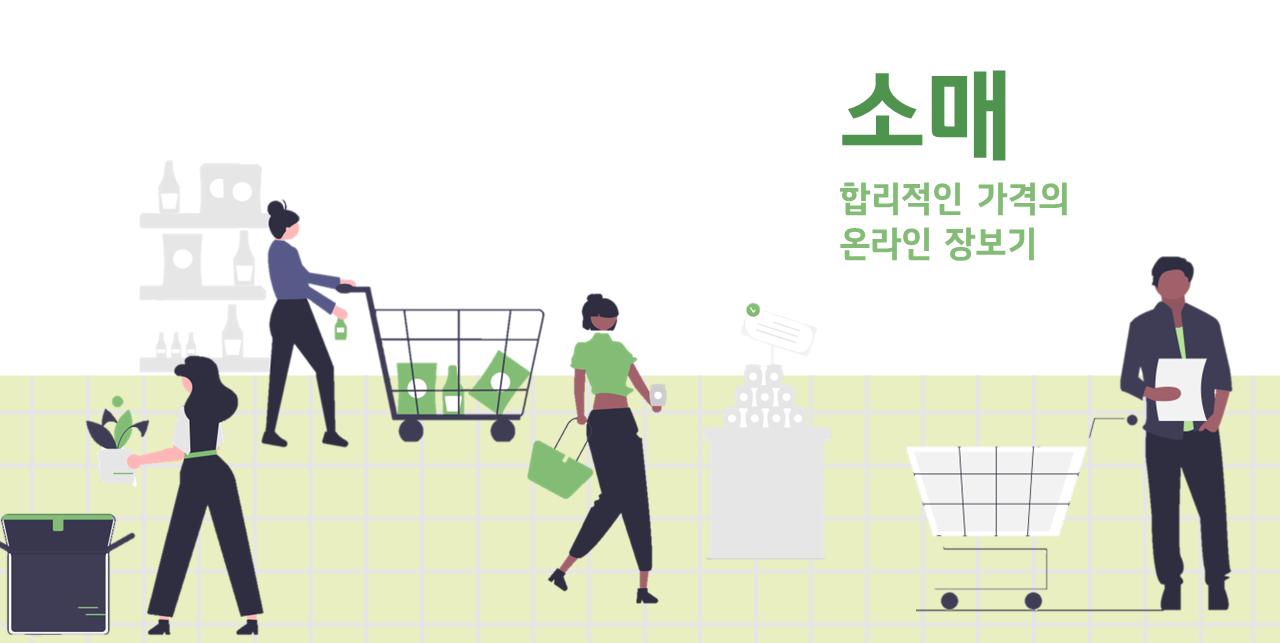
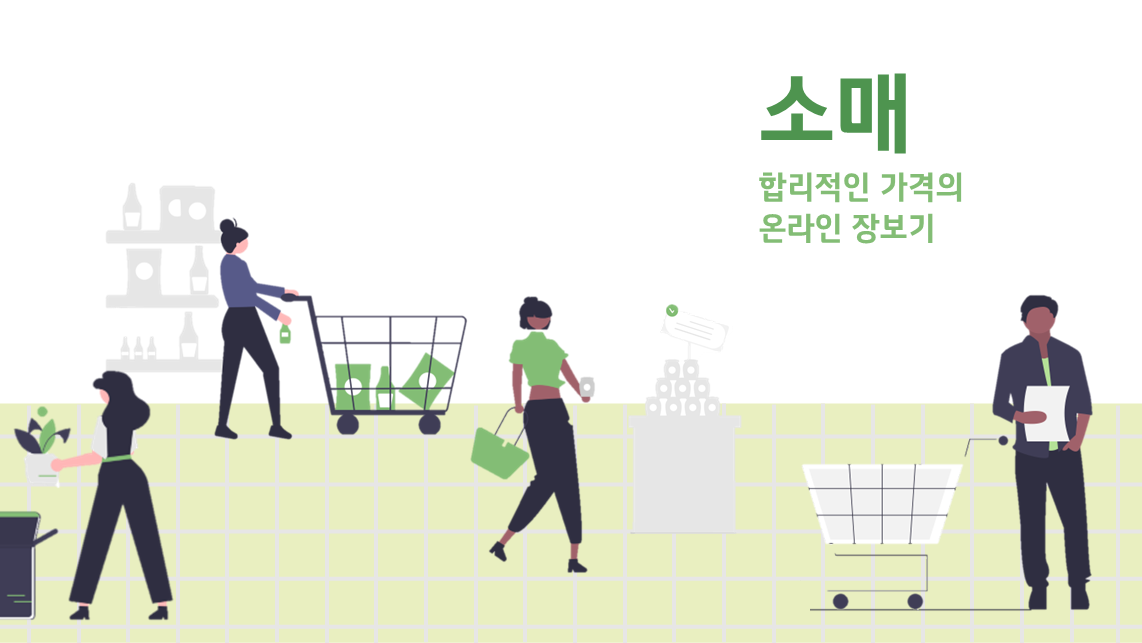
메인페이지 배너 변경

Changed region(s): [[0.0, 0.2488, 1.0, 0.9953], [0.6436, 0.0933, 0.8581, 0.4044], [0.4597, 0.4355, 0.4904, 0.5288]]

diff --git a/src/views/home/home.html b/src/views/home/home.html
@@ -43,7 +43,6 @@
         <div class="pageTop">
           <a href="/" class="brand">
             <span class="logoTitle">m</span>
-            <!-- <span id="title"><span class="subTitle">먹거리장터</span>먹짱</span> -->
           </a>
         </div>
         <div class="Category">
@@ -54,13 +53,9 @@
     </header>
     <!--메인-->
     <main role="main" class="main">
-      <section class="slider">
-        <button class="imgBtn left"><i class="fas fa-chevron-left fa-2x" aria-hidden="true"></i></button>
-        <ul class="slides">
-          <li class="slide"><img class="img" id="categoryBig" src="../배너1.PNG"></li>
-          <li class="slide"><img class="img" id="categorySmall" src="../배너2.PNG"></li>
-        </ul>
-        <button class="imgBtn right"><i class="fas fa-chevron-right fa-2x" aria-hidden="true"></i></button>   
+      <section class="mainBanner">
+        <img class="img big" id="categoryBig" src="../배너1.PNG">
+        <img class="img small" id="categorySmall" src="../배너2.PNG">
       </section>
     </main>
   </body>

diff --git a/src/views/home/home.js b/src/views/home/home.js
@@ -1,36 +1,3 @@
-const slider = document.querySelector('.slider');
-const slides = slider.querySelector('.slides');
-const slide = slides.querySelectorAll('.slide');
-const $leftBtn = document.querySelector('.left');
-const $rightBtn = document.querySelector('.right');
-console.log(`slider: ${slider}, slides: ${slides}`);
-
-let currentSlide = 0;
-function autoSlide() {
-  const from = -(100 * currentSlide);
-  const to = from - 100;
-  slides.animate({
-      marginLeft: [from + "vw", to + "vw"]
-  }, {
-      duration: 500,
-      easing: "ease",
-      iterations: 1,
-      fill: "both"
-  });
-  currentSlide++;
-  if (currentSlide === (slide.length - 1)) {
-    currentSlide = 0;
-  }
-}
-setInterval(autoSlide, 5000);
-
-$leftBtn.addEventListener('click', () => {
-
-});
-$rightBtn.addEventListener('click', () => {
-
-});
-
 const $categoryBig = document.getElementById("categoryBig");
 const $categorySmall = document.getElementById("categorySmall");
 $categoryBig.addEventListener("click", categoryBtn);

diff --git a/src/views/home/home.css b/src/views/home/home.css
@@ -27,45 +27,21 @@ header .subTitle {
 }
 
 /* 메인 배너 */
-.main{
-  width: 100vw;
-  height: 60vh;
-}
-.slider{
-  width: 100%;
-  height: 643px;
-  overflow: hidden;
-}
-.slides {
-  position: relative;
+.mainBanner {
   display: flex;
-  width: 2560px;
-  height: 643px;
+  width: 100vw;
+  align-items: stretch;
 }
-.slide{
-  width: 1280px;
-  height: 643px;
+.big {
+  flex-basis: 50%;
 }
-.imgBtn{
-  width: 30px; 
-  height: 30px;
-  border: none;
-  outline: none;
-  background: transparent;
-  color: #4e944f;
+.small {
+  flex-basis: 50%;
 }
-.slide,
-.imgBtn:hover{
+.img {
+  width: 50vw;
+  height: 80vh;
+}
+.img:hover{
   cursor: pointer;
-}
-.left{
-  position: absolute;
-  top: 85%;
-  left: 3%;
-  z-index: 2;
-}
-.right{
-  position: absolute;
-  top: 85%;
-  right: 3%;
 }
